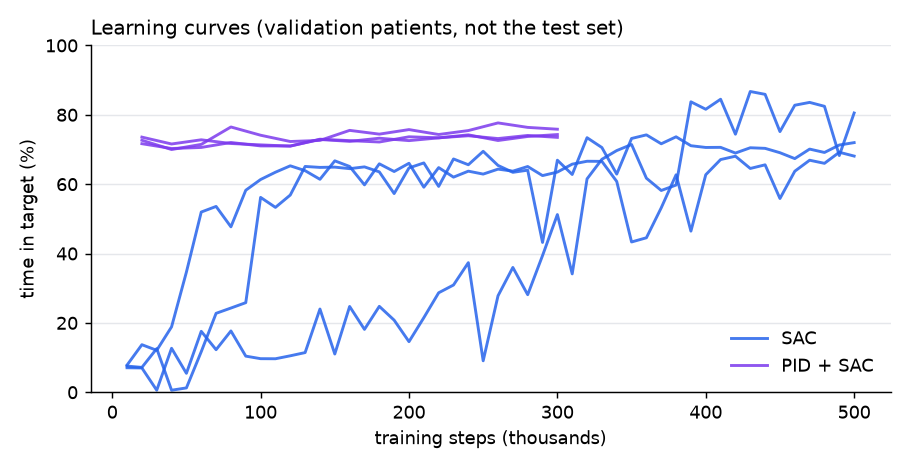
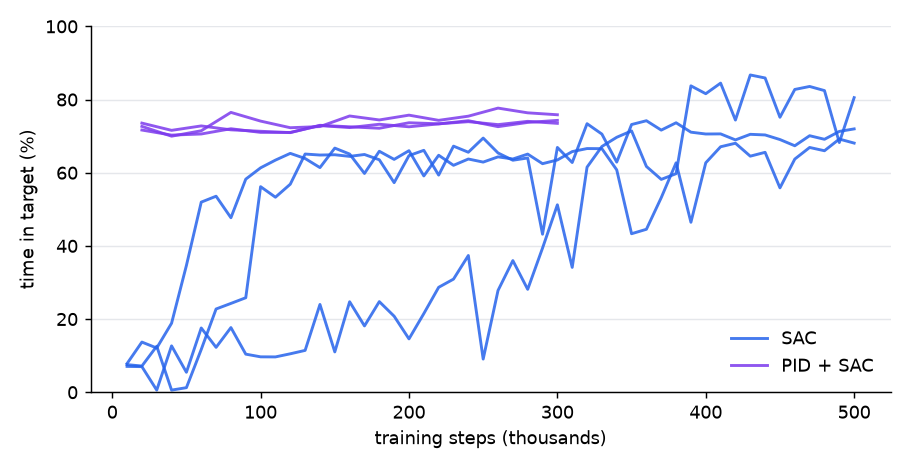
Figures: drop plot titles, move the text into README captions

diff --git a/benchmark.py b/benchmark.py
@@ -104,7 +104,6 @@ def figure_learning_curves(pid_test):
             ax.plot([r['step'] / 1000 for r in log], [r['time_in_target'] for r in log], color=C[label],
                     lw=1.6, alpha=0.85, label=label if i == 0 else None)
     ax.set_xlabel('training steps (thousands)'); ax.set_ylabel('time in target (%)')
-    ax.set_title('Learning curves (validation patients, not the test set)', loc='left', fontsize=11)
     ax.set_ylim(0, 100); style(ax); ax.legend(frameon=False, loc='lower right')
     fig.tight_layout(); fig.savefig('media/learning_curves.png'); plt.close(fig)
 
@@ -117,7 +116,6 @@ def figure_paired(pp):
             ax.scatter(pp['PID'], pp[n], s=30, color=C[n], alpha=0.85, label=n,
                        marker='o' if n == 'SAC' else '^')
     ax.set_xlabel('PID: time in target (%)'); ax.set_ylabel('RL controller: time in target (%)')
-    ax.set_title('Each dot is one unseen patient', loc='left', fontsize=11)
     ax.text(4, 93, 'above the line: RL better', color=MUTED, fontsize=9)
     ax.set_xlim(0, 100); ax.set_ylim(0, 100); style(ax); ax.legend(frameon=False, loc='lower right')
     fig.tight_layout(); fig.savefig('media/paired_patients.png'); plt.close(fig)
@@ -131,11 +129,10 @@ def figure_traces(model, idx=(0, 3, 8, 11, 19, 26)):
             tr = run_episode(ctrl, pats[i], TEST_NOISE_OFFSET + i)
             ax.plot([s['time_min'] for s in tr], [s['bis'] for s in tr], color=c, lw=1.5, label=lab)
         ax.axhspan(40, 60, color=C_TARGET, alpha=0.1, lw=0)
-        ax.set_title(describe(pats[i]), fontsize=10, loc='left'); ax.set_ylim(0, 100); style(ax)
-    axes[0, 0].legend(frameon=False, loc='upper right')
+        ax.text(0.98, 0.97, describe(pats[i]), transform=ax.transAxes, fontsize=10, va='top', ha='right'); ax.set_ylim(0, 100); style(ax)
+    axes[0, 0].legend(frameon=False, loc='center right')
     for ax in axes[:, 0]: ax.set_ylabel('BIS')
     for ax in axes[1]: ax.set_xlabel('time (min)')
-    fig.suptitle('Held-out test patients (same noise and surgical stimulation for both controllers)', x=0.01, ha='left', fontsize=11)
     fig.tight_layout(); fig.savefig('media/test_traces.png'); plt.close(fig)
 
 

diff --git a/README.md b/README.md
@@ -46,7 +46,7 @@ Per patient: pure SAC beat the PID on 3 of 30 patients; PID + SAC beat it on 9 o
 
 ![BIS traces on six test patients](media/test_traces.png)
 
-*PID vs PID + SAC on six test patients.*
+*BIS over the 40 min case for six test patients, PID vs PID + SAC. Both controllers get the same monitor noise and surgical stimulation. Shaded band: target range.*
 
 ## Why the RL agents lost
 
